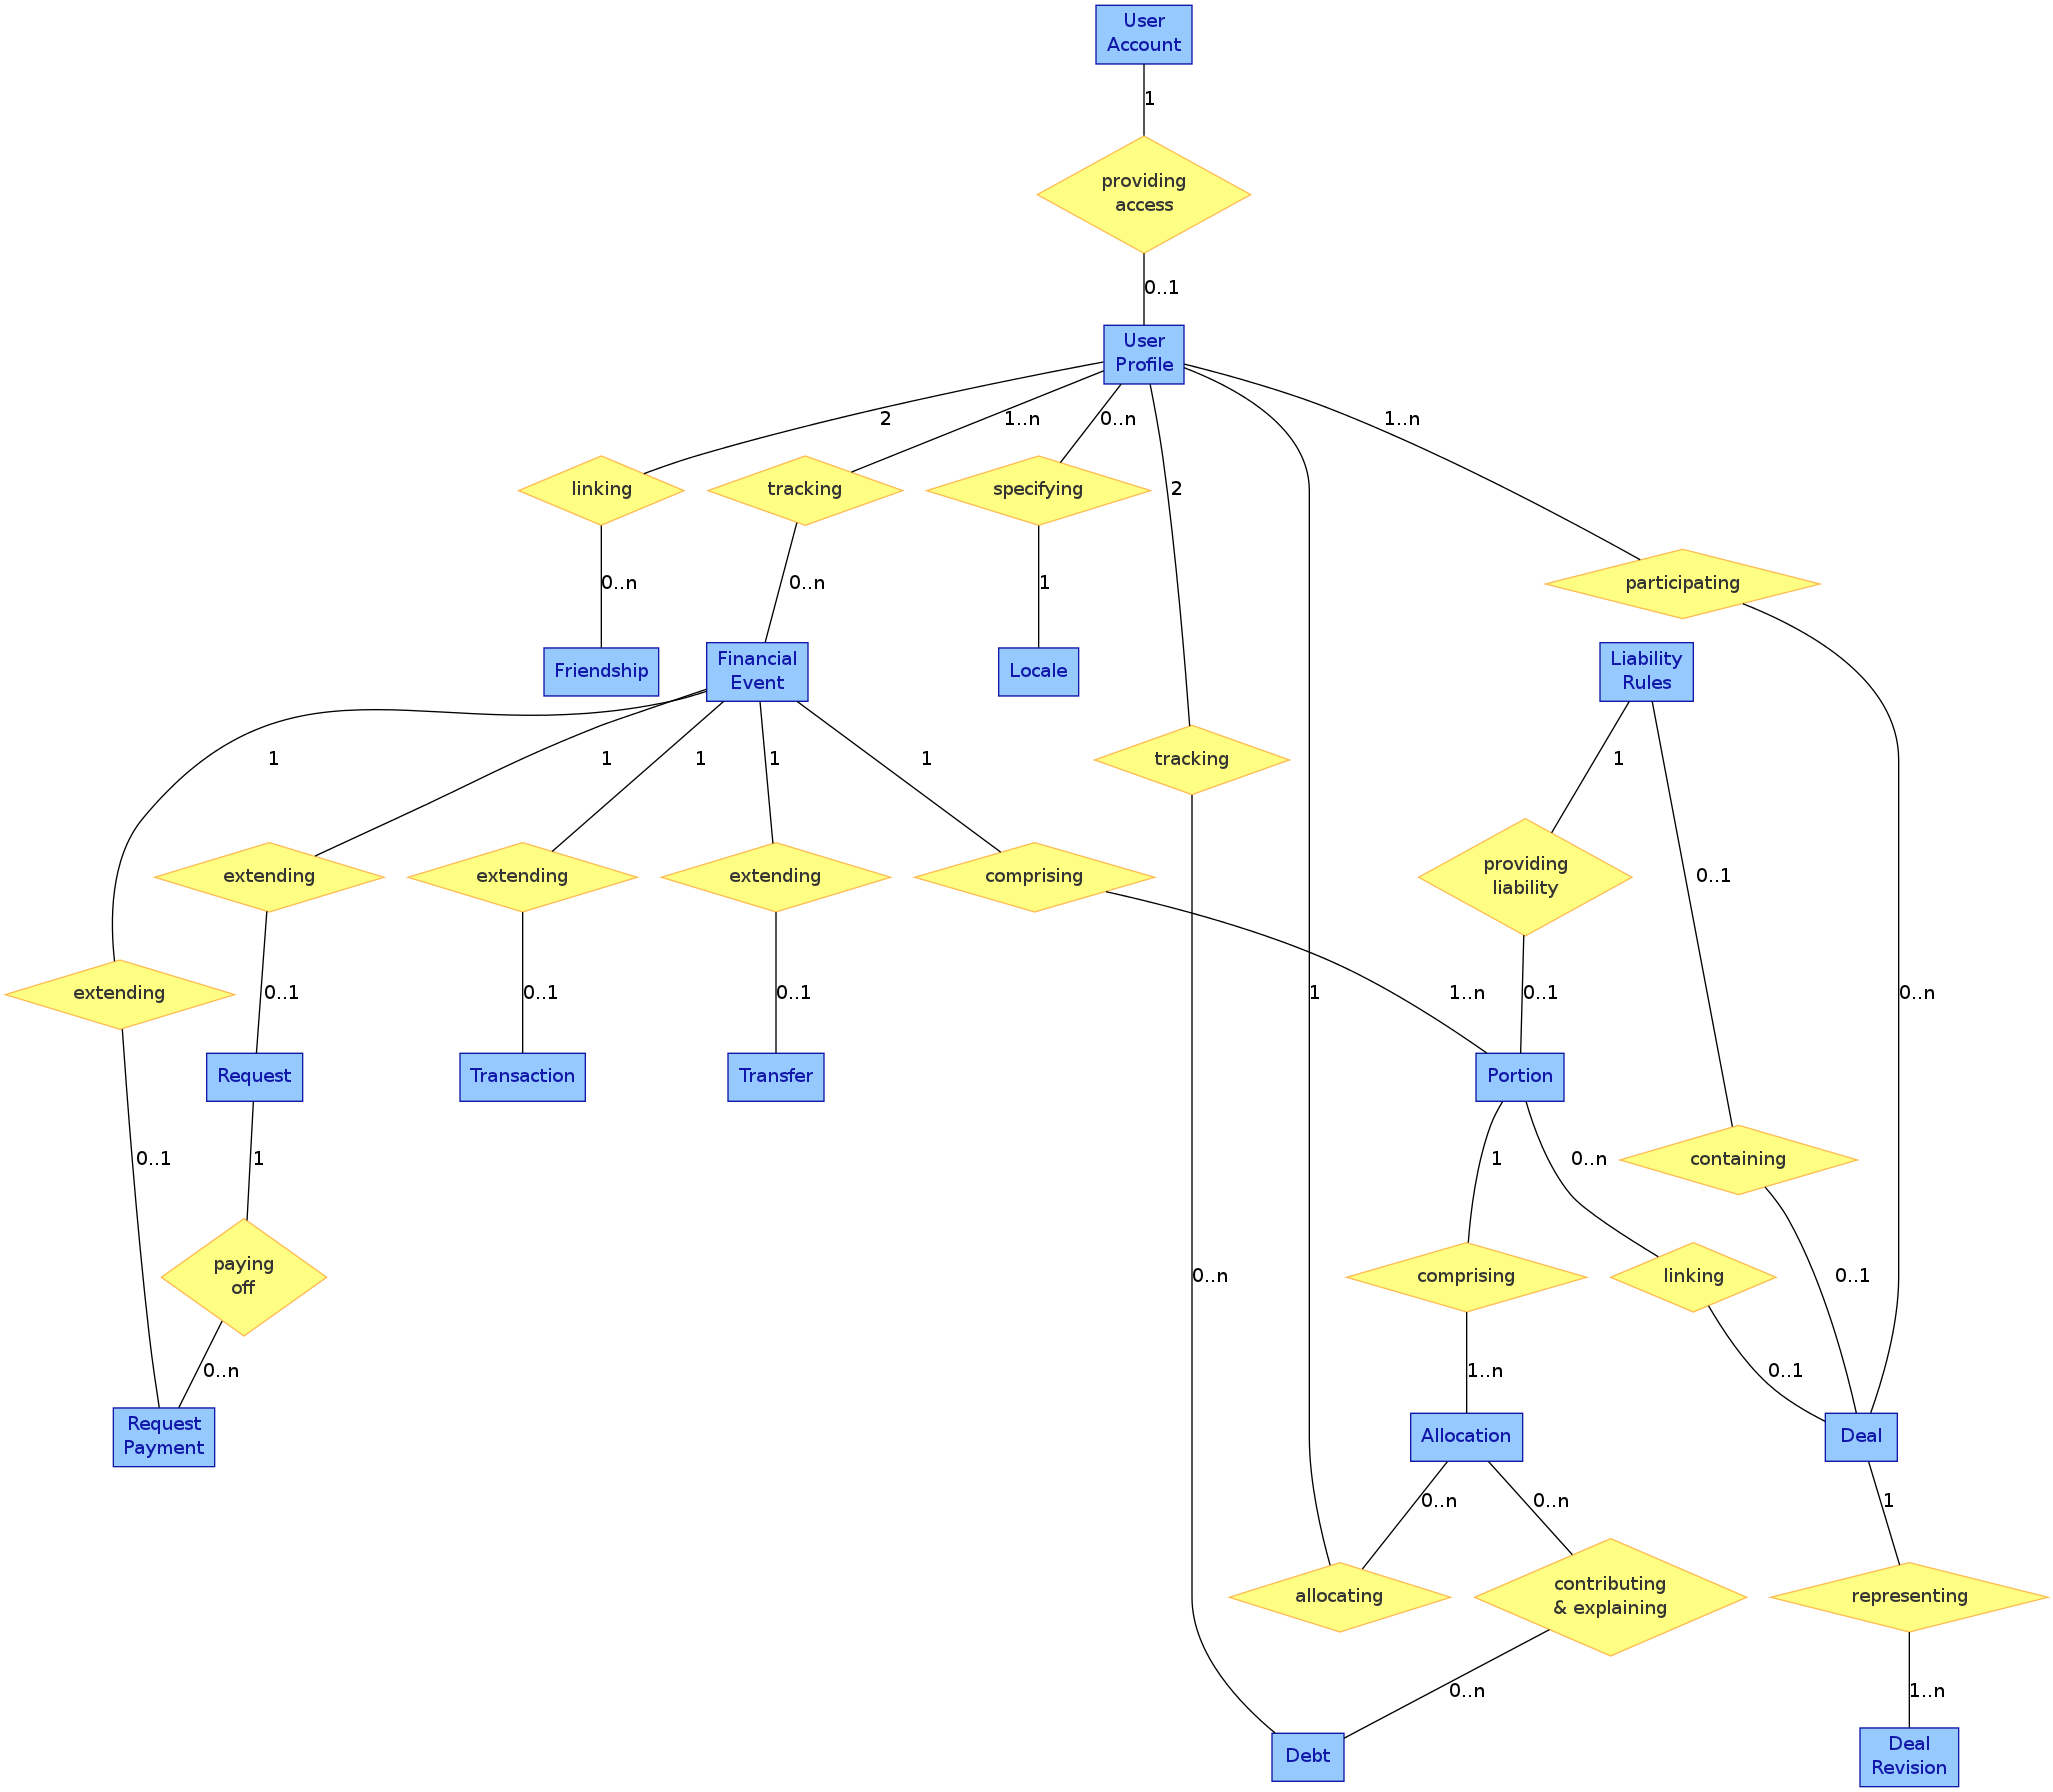
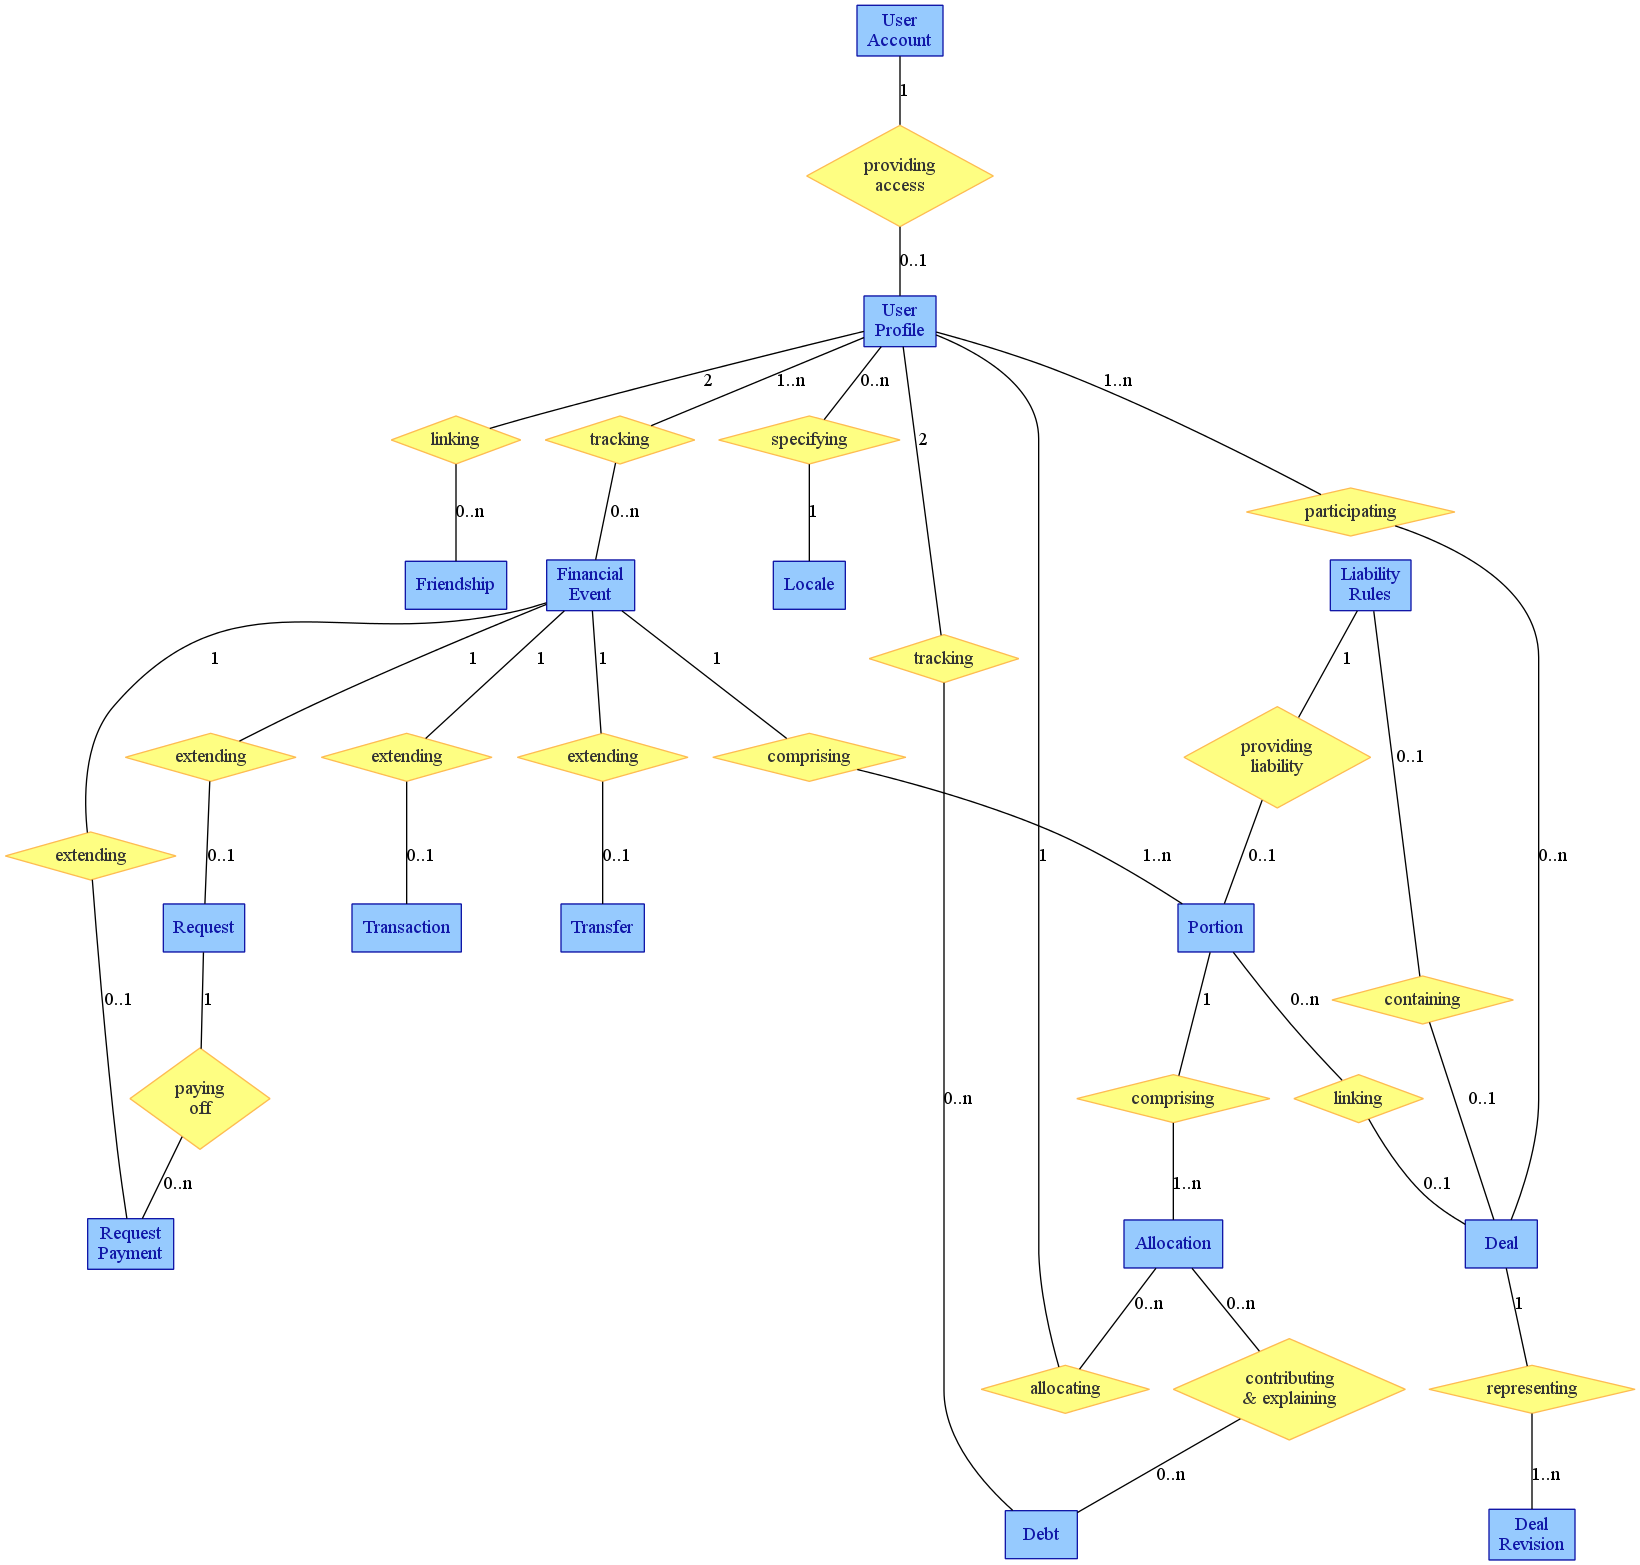
Quick touch-up to ole erb_grapher.rb

diff --git a/bin/erb_grapher.rb b/bin/erb_grapher.rb
@@ -6,7 +6,7 @@ unless ARGV.length == 1
 end
 
 def change_ext(filename,ext)
-  filename= File.basename(filename).sub(/\.[^.]*$/,'') unless filename.end_with?(".#{ext}")
+  #filename= filename.sub(/\.[^.]*$/,'') unless filename.end_with?(".#{ext}")
   "#{filename}.#{ext}"
 end
 def to_label(str)
@@ -30,37 +30,41 @@ puts "  #{entities.size} entities."
 puts "  #{relations.size} relationships."
 
 # Create graph
-entity_data= entities.map{|k,v| %!#{v} [label=#{to_label k}];!}.join "\n"
+entity_data= entities.map{|k,v| %!#{v} [label=#{to_label k}];!}
 ri=0
 relation_data= relations.map do |r|
   id= "r#{ri+=1}"
-  %!#{id} [label=#{to_label r[:name]}]; ! +\
-  %!#{r[:e1]} -> #{id} [label=#{to_label r[:r1]}];! +\
-  %!#{id} -> #{r[:e2]} [label=#{to_label r[:r2]}];!
-end.join("\n")
-graph= %!digraph ERD {
-node [style=filled];
+  %!
+    #{id} [label=#{to_label r[:name]}];
+    #{r[:e1]} -> #{id} [label=#{to_label r[:r1]}];
+    #{id} -> #{r[:e2]} [label=#{to_label r[:r2]}];
+  !.strip.gsub(/\s*\n+\s*/, ' ')
+end
+graph= <<-EOB
+digraph ERD {
+  node [style=filled];
 
-# Entities
-node [shape=box, color="#1117A8", fontcolor="#1117A8", fillcolor="#96CAFE"];
-#{entity_data}
+  // Entities
+  node [shape=box, color="#1117A8", fontcolor="#1117A8", fillcolor="#96CAFE"];
+#{entity_data.map{|l| "  #{l}"}.join "\n"}
 
-# Relations
-node [shape=diamond, color="#FEBB51", fontcolor="#333333", fillcolor="#FEFE82"];
-edge [dir=none];
-#{relation_data}
-}!
+  // Relations
+  node [shape=diamond, color="#FEBB51", fontcolor="#333333", fillcolor="#FEFE82"];
+  edge [dir=none];
+#{relation_data.map{|l| "  #{l}"}.join "\n"}
+}
+EOB
 
 # Save graphviz file
-dot_file= change_ext(src_file,'dot')
-puts "Creating graph src: #{dot_file}"
-File.open(dot_file,'w') {|fout| fout<<graph}
+gv_file= change_ext(src_file,'gv')
+puts "Creating graph src: #{gv_file}"
+File.write gv_file, graph
 
 # Create graph
 graph_format= "png"
 graph_file= change_ext(src_file,graph_format)
 puts "Creating graph: #{graph_file}"
-`dot -T#{graph_format} -o#{graph_file} #{dot_file}`
+system "dot -T#{graph_format} -o#{graph_file.inspect} #{gv_file.inspect}"
 
 # Done
 puts "Done."
